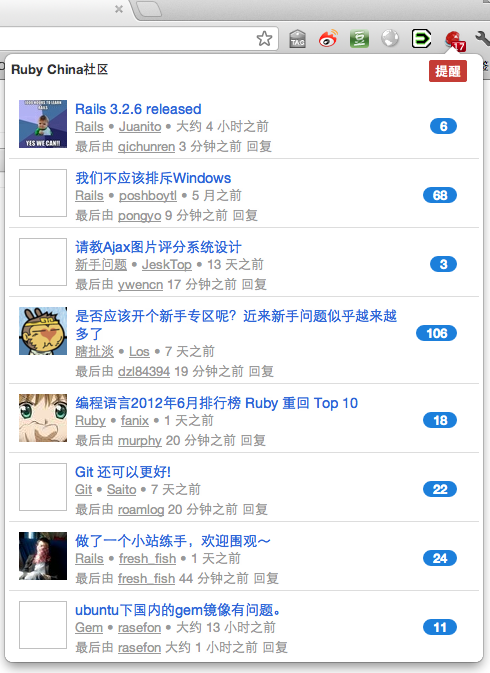
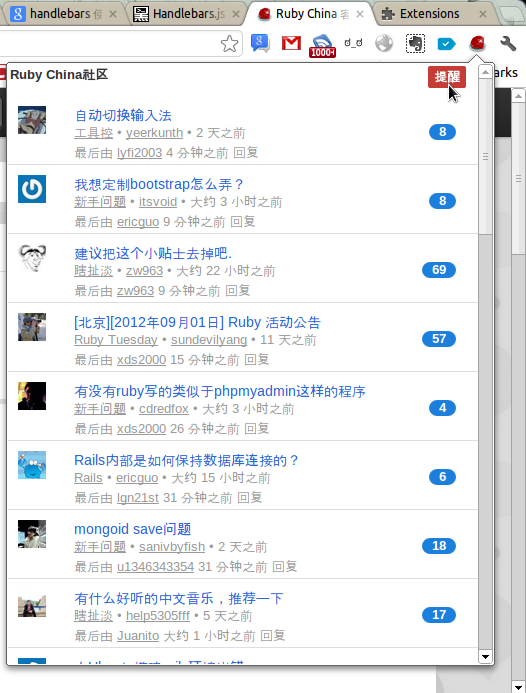
Change the option, preview and README

diff --git a/option.html b/option.html
@@ -10,13 +10,15 @@
 
 提醒更新时间间隔:
 <select id="fetch_duration">
-    <option value="1">5分钟</option>
+    <option value="1">1分钟</option>
+    <option value="2">2分钟</option> 
+    <option value="5">5分钟</option>
     <option value="15">15分钟</option>
     <option value="30">30分钟</option>
     <option value="60">一小时</option>
 </select>
 
-<footer><a href="http://ruby-china.org/users/qichunren">qichunren</a>制作 </footer>
+<footer><a href="http://ruby-china.org/users/qichunren">qichunren</a>  制作 & <a href="http://ruby-china.org/users/tony612">Tony</a> 更新 </footer>
 <script type="text/javascript" src="javascripts/jquery-1.7.1.min.js"></script>
 <script type="text/javascript" src="javascripts/option.js"></script>
 </body>

diff --git a/javascripts/option.js b/javascripts/option.js
@@ -1,16 +1,13 @@
 $(document).ready(function(){
 
     if(localStorage["update_duration"]==undefined){
-        localStorage["update_duration"] = 5;
+        localStorage["update_duration"] = 2;
     }
     $("#fetch_duration").val(localStorage["update_duration"]);
 
     $("#fetch_duration").change(function(){
         localStorage["update_duration"] = parseInt($(this).val());
     });
-
-
-
 
 });
 

diff --git a/javascripts/background.js b/javascripts/background.js
@@ -20,6 +20,6 @@ function fetchNotify(){
 }
 fetchNotify();
 if(localStorage["update_duration"]==undefined){
-    localStorage["update_duration"] = 5;
+    localStorage["update_duration"] = 2;
 }
 setInterval(fetchNotify, 1000 * 60 * localStorage["update_duration"]);

diff --git a/README.md b/README.md
@@ -18,3 +18,10 @@
 + 集成个人帐号
 + 个人未读消息提醒 (已经实现)
 + 插件配置，配置什么？
+
+## New version 2.0
+因为随着chrome的升级，插件要升到2才可以使用，但是这次版本号升级里面，在 extension 的安全策略方面做了较大改动.
+改变最大的是 Content Security Policy (CSP) 。这个改变包括，不再允许执行 inline script；不再允许使用 eval() 或者 new Function() 来进行字符串处理。
+因此原本的jquery的templates已经不能正常使用，所以就换成了用Handlebars的预编译的方法来处理。（详见[Javascript Templates and Chrome's Content Security Policy](http://matthewrobertson.org/blog/2012/07/10/javascript-templates-and-chromes-content-security-policy/)）
+
+另外就是，又加入了1、2分钟的option，以及图片的更新
